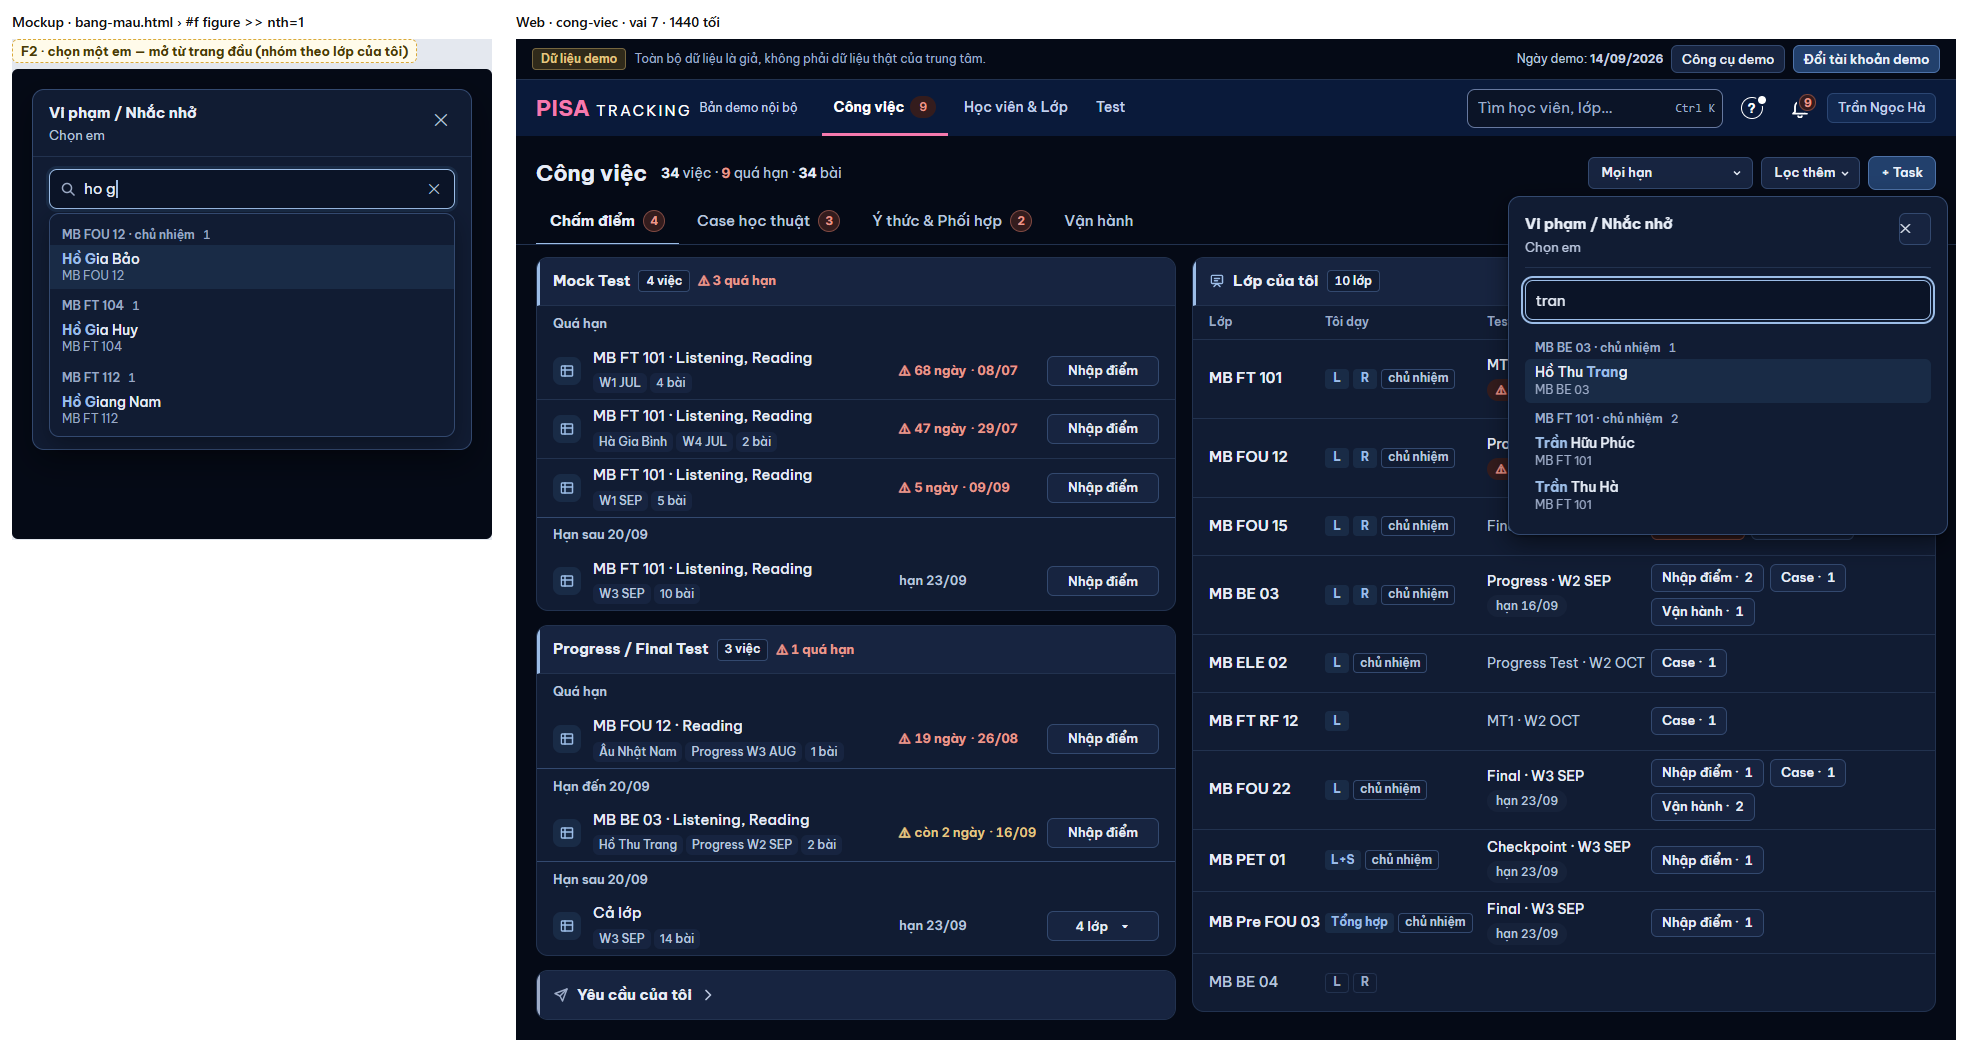
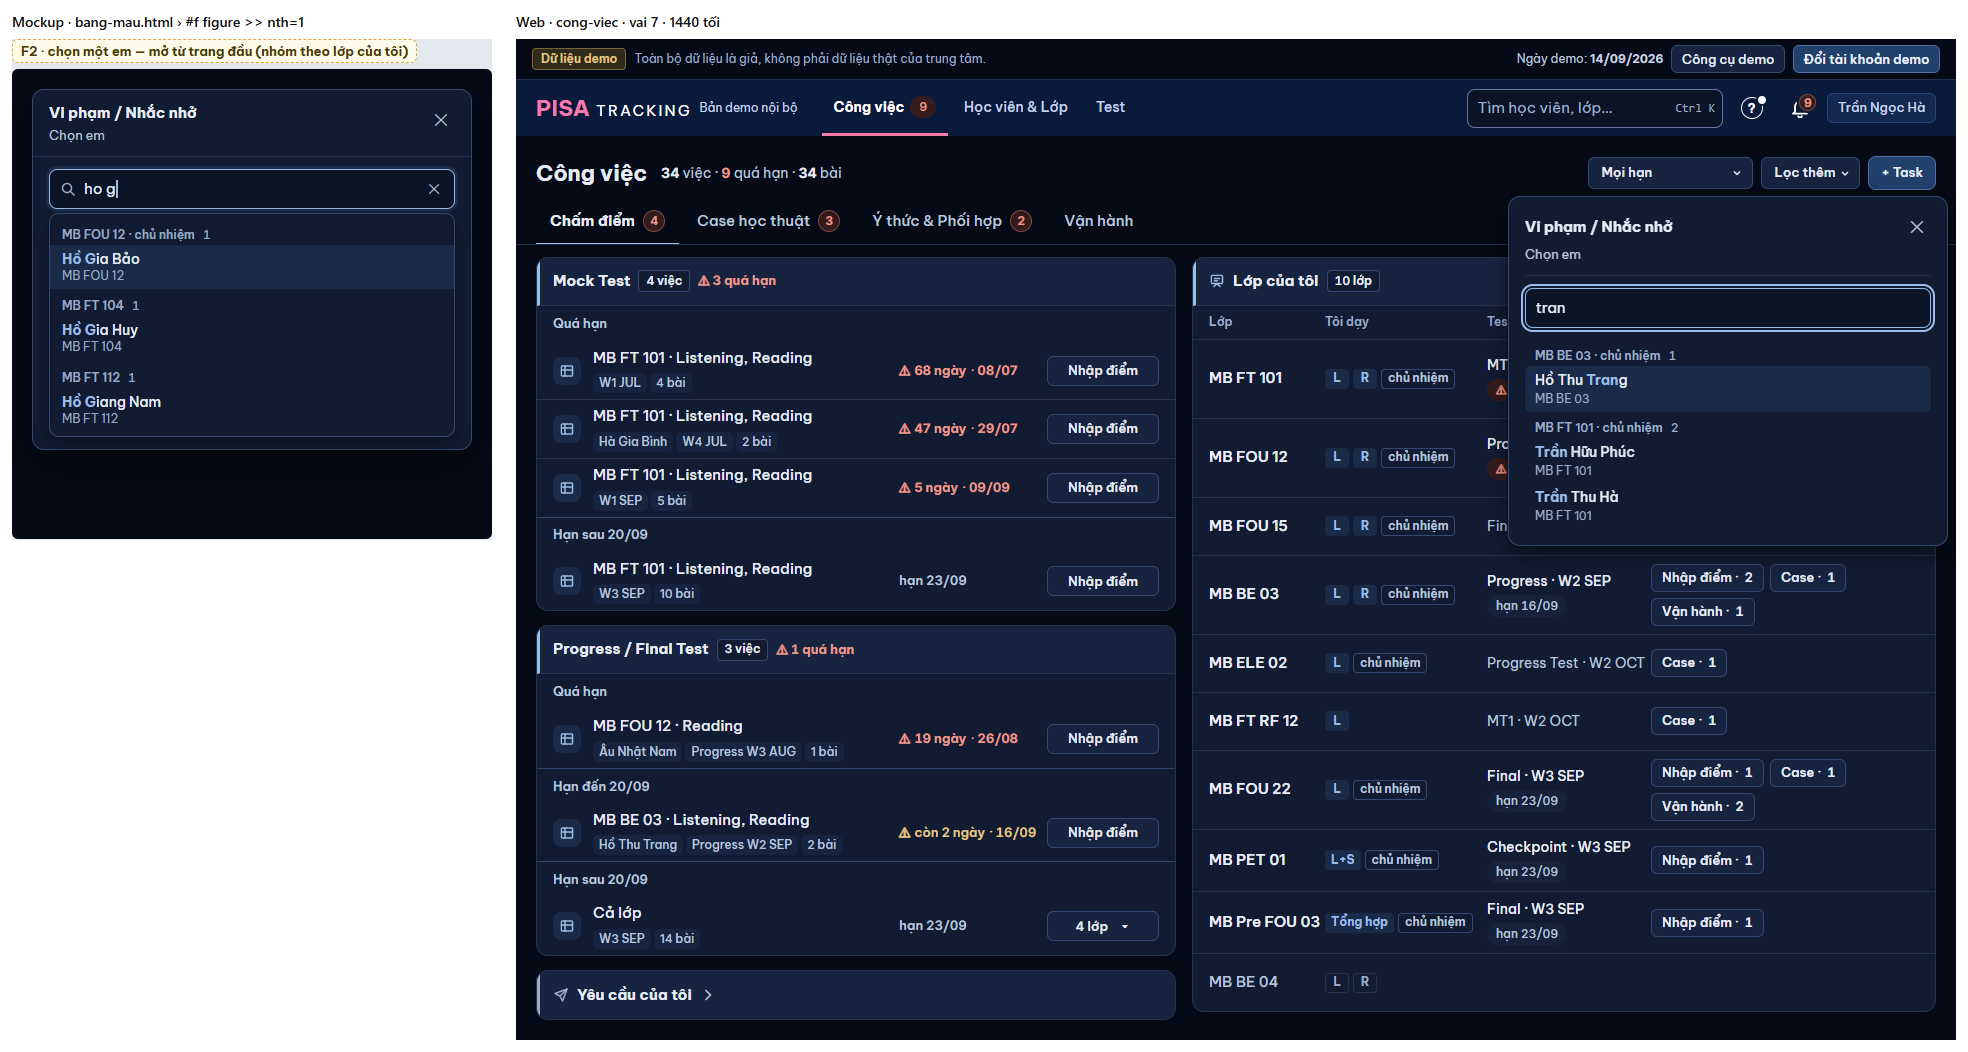
GD-4a: nút ✕ một dáng NUT_DONG (36/44, không viền) — hộp chọn em cùng hàng tiêu đề, KhungPanel ✕ cùng hàng dòng loại (⑤ D1); bảng đo + ảnh zoom

Changed region(s): [[0.7749, 0.2129, 0.9919, 0.5171], [0.8369, 0.4867, 0.8989, 0.5171], [0.9609, 0.4867, 0.9919, 0.5171]]

diff --git a/web/src/ui/KhungPanel.tsx b/web/src/ui/KhungPanel.tsx
@@ -167,6 +167,12 @@ export const QuayLaiPanel = createContext<{ nhan: string; onClick: () => void; x
  * `DongCanSua`) — chỉ truyền `conThieu` SAU khi bấm Lưu; lý do từng ô nằm dưới ô (`Truong loi`). CHỈ thân cuộn, trang sau khoá cuộn. Mở việc khác thì THAY nội dung, không
  * chồng panel (`khoPanelChung`). Không chữ dev; chữ mẫu bắt đầu "Ví dụ:".
  */
+/**
+ * NÚT ✕ ĐẦU HỘP / PANEL — MỘT dáng (mockup v21 `.x`; chủ SP 15/11 "mấy nút ⋯ hay ✕ hay bị lệch"): ô 36 × 36 (điện thoại 44) không viền, nền trong,
+ * ✕ 17 px giữa ô, rê mới có nền. Nơi đặt để ô cùng HÀNG với dòng tiêu đề (`items-center`) — tâm ✕ thẳng tâm chữ tiêu đề; mép phải cách hộp 12 px.
+ */
+export const NUT_DONG = 'grid h-9 w-9 shrink-0 cursor-pointer place-items-center rounded-lg border-0 bg-transparent p-0 text-[17px] leading-none text-dim hover:bg-[rgb(var(--phu-rgb)/0.1)] hover:text-[color:var(--text)] max-sm:h-11 max-sm:w-11';
+
 export function KhungPanel({ tieuDe, hocVien, lop, rong: rongRieng, tabs, vungTab, ngCanh, quayLai: quayLaiRieng, chan, quyChe, daSua: daSuaRieng, longTrong, z = 'z-50', dau, loai, anDau = false, hd, onDong, children }: {
   tieuDe: string;
   /** U02: khung trong cột đã có dòng đầu riêng (dòng tóm tắt Case) — không vẽ đầu panel khi không có "‹ view trước". */
@@ -337,7 +343,10 @@ export function KhungPanel({ tieuDe, hocVien, lop, rong: rongRieng, tabs, vungTa
   /* `!mt-0`: panel đứng trong trang có `space-y-*` thì bị cộng margin-top 12–16 px → lệch xuống, lộ dải demo bar/đầu trang (PR-DH, DH-13).
      Vẽ qua portal ra <body>: panel mở từ ô bảng (GV chấm ở tiêu đề cột dính, hộp bốn tiêu chí trong ô điểm) không bị kẹt dưới
      lớp xếp chồng của ô, không kế thừa chữ in hoa / căn phải của ô. Sự kiện React vẫn nổi theo cây React như cũ. */
-  const nutDong = trongCot ? null : <button type="button" className={`btn btn-sm btn-ghost min-h-[44px] min-w-[44px] justify-center sm:min-h-[32px] sm:min-w-[32px] ${dau && !lui ? '-my-1' : ''} ${lui ? 'ml-auto' : ''}`} onClick={dong} aria-label={t('Đóng')}>✕</button>;
+  /* GD-4a: ✕ một dáng `NUT_DONG` (36 / 44). Mockup ⑤ D1 `.pn-h1`: có dòng loại ("Việc · Ý thức") thì ✕ đứng CÙNG HÀNG dòng loại (hàng cao 36, căn giữa);
+     không có thì cùng hàng tiêu đề (dòng 24 px, `items-start` → kéo ô lên nửa phần dư 6 / 10 px: tâm ✕ = tâm dòng tiêu đề). */
+  const xHangLoai = !!dau && !lui && !!vachLoai;
+  const nutDong = trongCot ? null : <button type="button" className={`${NUT_DONG} ${dau && !lui && !xHangLoai ? '-my-1.5 max-sm:-my-2.5' : ''} ${lui ? 'ml-auto' : ''}`} onClick={dong} aria-label={t('Đóng')}>✕</button>;
   /* M6 6b-1 (mockup panel-pilot khu K ①): "‹ {view trước}" cùng hàng ✕ ở đầu panel, ✕ luôn góc phải — thay dòng "← …" riêng dưới đầu. */
   const hangLui = lui && (
     <div className="-ml-2 flex min-h-9 w-[calc(100%+0.5rem)] items-center gap-2">
@@ -356,7 +365,9 @@ export function KhungPanel({ tieuDe, hocVien, lop, rong: rongRieng, tabs, vungTa
         ) : anDau && !lui ? null : dau ? (
           <header className={`flex shrink-0 flex-col gap-1.5 border-b px-4 pb-3.5 sm:px-5 ${lui ? 'pt-2' : 'pt-4'}`} style={{ borderColor: 'var(--line)' }}>
             {hangLui}
-            {vachLoai && <div className="-mb-1.5">{vachLoai}</div>}
+            {xHangLoai ? (
+              <div className="-mb-0.5 -mt-1.5 flex min-h-9 items-center gap-2 max-sm:min-h-11"><div className="min-w-0 flex-1 [&>div]:mb-0">{vachLoai}</div>{nutDong}</div>
+            ) : vachLoai && <div className="-mb-1.5">{vachLoai}</div>}
             <div className="flex items-start gap-2.5">
               {/* RA-UI-6 (critique A4): panel nằm trong cột hồ sơ (`trongCot`) dưới đầu mục 15 → tiêu đề 15, không lớn hơn tầng cha. */}
               {/* CV-TAB: chip hạn đứng ngay sau tiêu đề, ✕ góc phải. GD-3 (mockup v21 ① `.pn-tieu h2` 17 / 700, chủ SP duyệt 14/11 — thay 22 của v17). */}
@@ -369,7 +380,7 @@ export function KhungPanel({ tieuDe, hocVien, lop, rong: rongRieng, tabs, vungTa
                 <h2 className={`m-0 min-w-0 flex-1 font-bold leading-6 text-slate-100 ${trongCot ? 'text-[15px]' : 'text-[17px]'}${dau.tieu ? ' flex flex-wrap items-center gap-x-2 gap-y-1' : ''}`}>{dau.tieu ?? tieuDe}</h2>
                 {dau.han}
               </>}
-              {!lui && nutDong}
+              {!lui && !xHangLoai && nutDong}
             </div>
             {/* 6c (#641 XM-3): mỗi mục mang "·" rộng cố định ĐỨNG TRƯỚC, hàng lùi trái đúng bề rộng đó, khung cắt ngang → mục đầu mỗi dòng
                 (kể cả khi xuống hàng ở 375) mất dấu, không còn "·" mồ côi đầu dòng. "· Xem Case" không tách dòng.

diff --git a/web/src/modules/congViec/NutTask.tsx b/web/src/modules/congViec/NutTask.tsx
@@ -3,6 +3,7 @@ import { api, invalidate } from '../../lib/api.ts';
 import { useSession } from '../../lib/session.tsx';
 import { MenuDong } from '../../ui/MenuDong.tsx';
 import { HopNeo } from '../../ui/HopNeo.tsx';
+import { NUT_DONG } from '../../ui/KhungPanel.tsx';
 import { useNgayNghiepVu } from '../../ui/ngayNghiepVu.ts';
 import { QuickReport } from '../cases/QuickReport.tsx';
 import { RecordViolationPanel } from '../yThuc/RecordViolationPanel.tsx';
@@ -103,9 +104,11 @@ function HopChonEm({ neo, loai, lopId, onDong, onChon }: {
   const tieuDe = MUC.find(([k]) => k === loai)![1];
   return (
     <HopNeo neo={neo} nhan={tieuDe} rong={440} onNgoai={onDong}>
-      <div className="flex items-start justify-between gap-3 border-b pb-2.5" style={{ borderColor: 'var(--line)' }}>
-        <div className="grid gap-0.5"><b className="text-base font-bold text-slate-100">{tieuDe}</b><span className="text-[13px] text-dim">{t('Chọn em')}</span></div>
-        <button type="button" className="btn btn-sm h-8 w-8 !px-0 max-sm:h-11 max-sm:w-11" aria-label={t('Đóng')} onClick={onDong}>✕</button>
+      {/* ⑤ F2 `.h-dau`: tiêu đề 15 + ✕ CÙNG HÀNG (tâm ✕ = tâm dòng tiêu đề), dòng phụ "Chọn em" dưới; ✕ cách mép phải hộp 12 px (đệm 16 − 4). */}
+      <div className="-mt-1 grid grid-cols-[minmax(0,1fr)_auto] items-center gap-x-2 border-b pb-2.5" style={{ borderColor: 'var(--line)' }}>
+        <b className="min-w-0 text-[15px] font-bold text-slate-100">{tieuDe}</b>
+        <button type="button" className={`${NUT_DONG} -mr-1`} aria-label={t('Đóng')} onClick={onDong}>✕</button>
+        <span className="text-[13px] text-dim">{t('Chọn em')}</span>
       </div>
       {nhieu && chon.length > 0 && (
         <span className="flex flex-wrap items-center gap-1.5">
